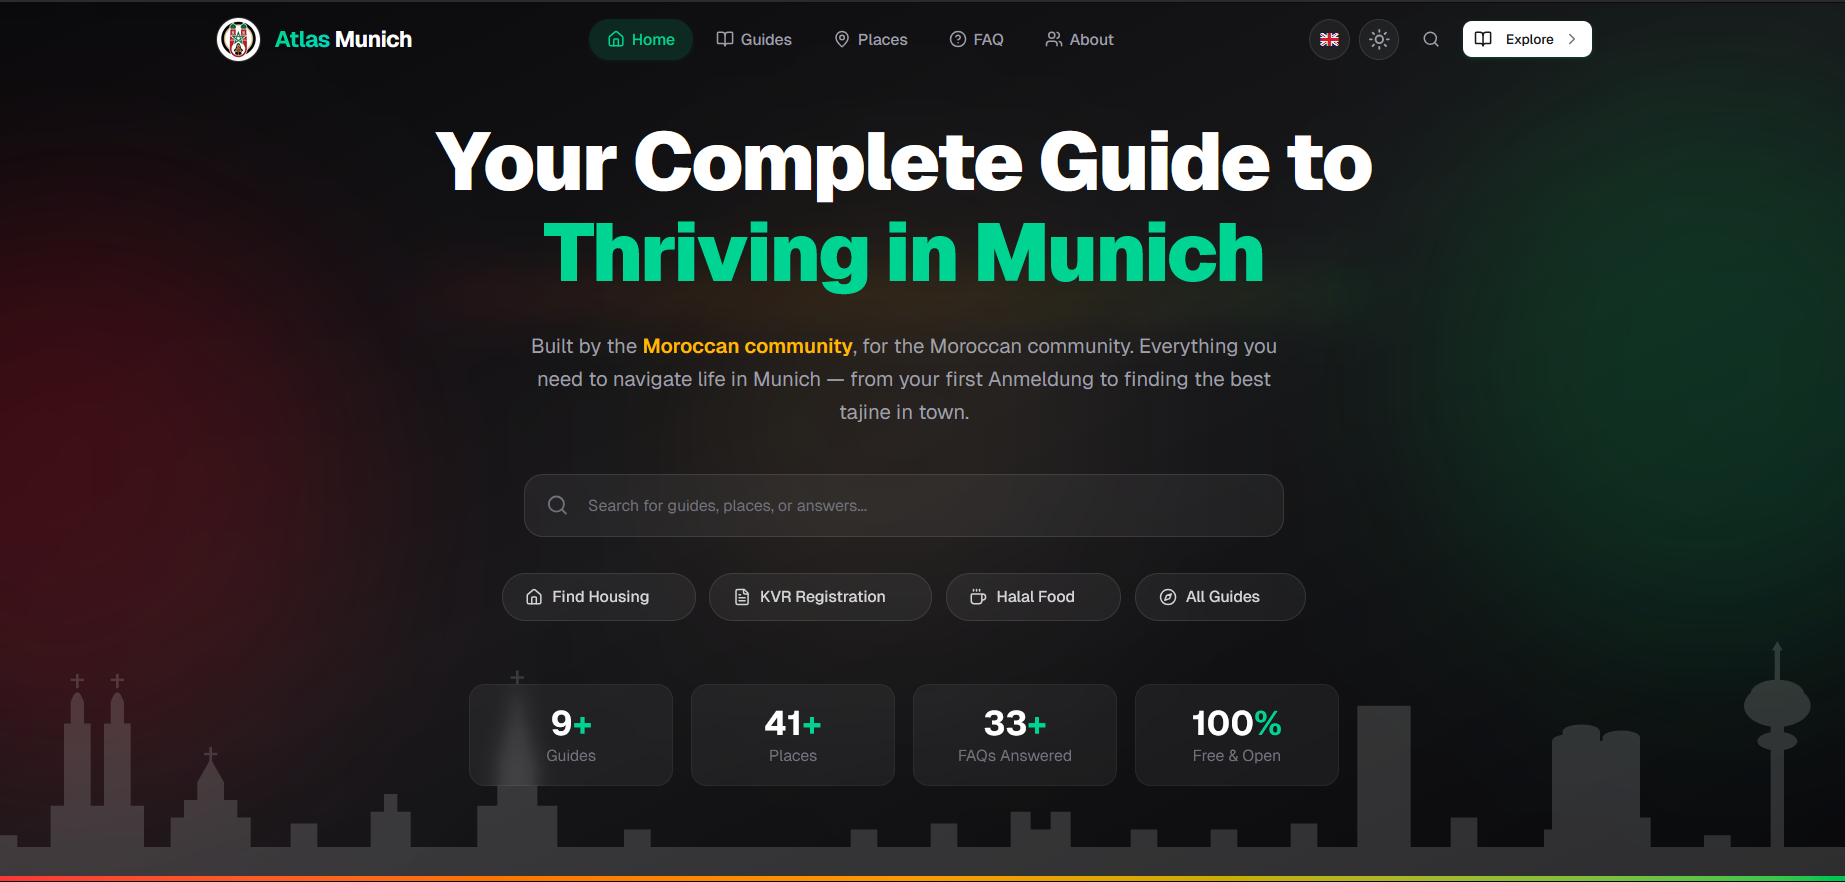
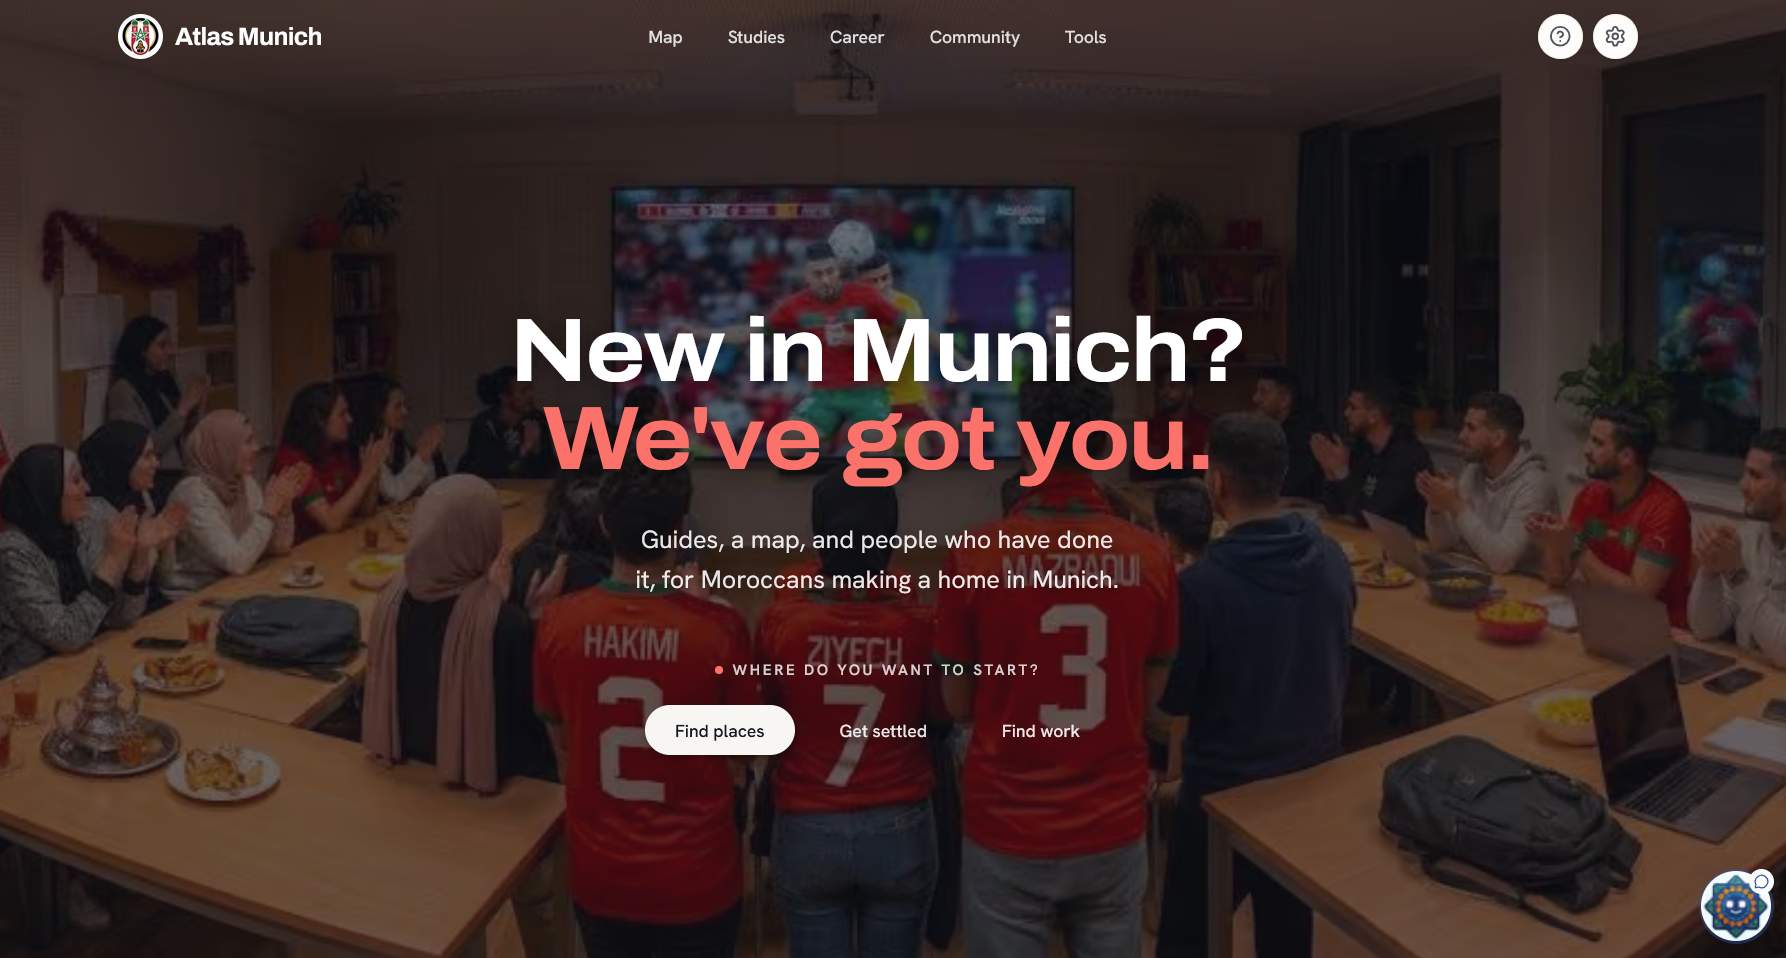
feat: upscale atlas image

diff --git a/src/app/[locale]/page.tsx b/src/app/[locale]/page.tsx
@@ -56,7 +56,7 @@ export default async function Home({
           else on the page shifts) is the fix, not touching the shared spacer. */}
       <section className="relative isolate -mt-(--header-h) flex min-h-[78vh] w-full flex-col justify-center overflow-hidden sm:min-h-screen">
         <Image
-          src="/atlas-hero.jpeg"
+          src="/atlas-hero.jpg"
           alt={t("heroImageAlt")}
           fill
           priority
